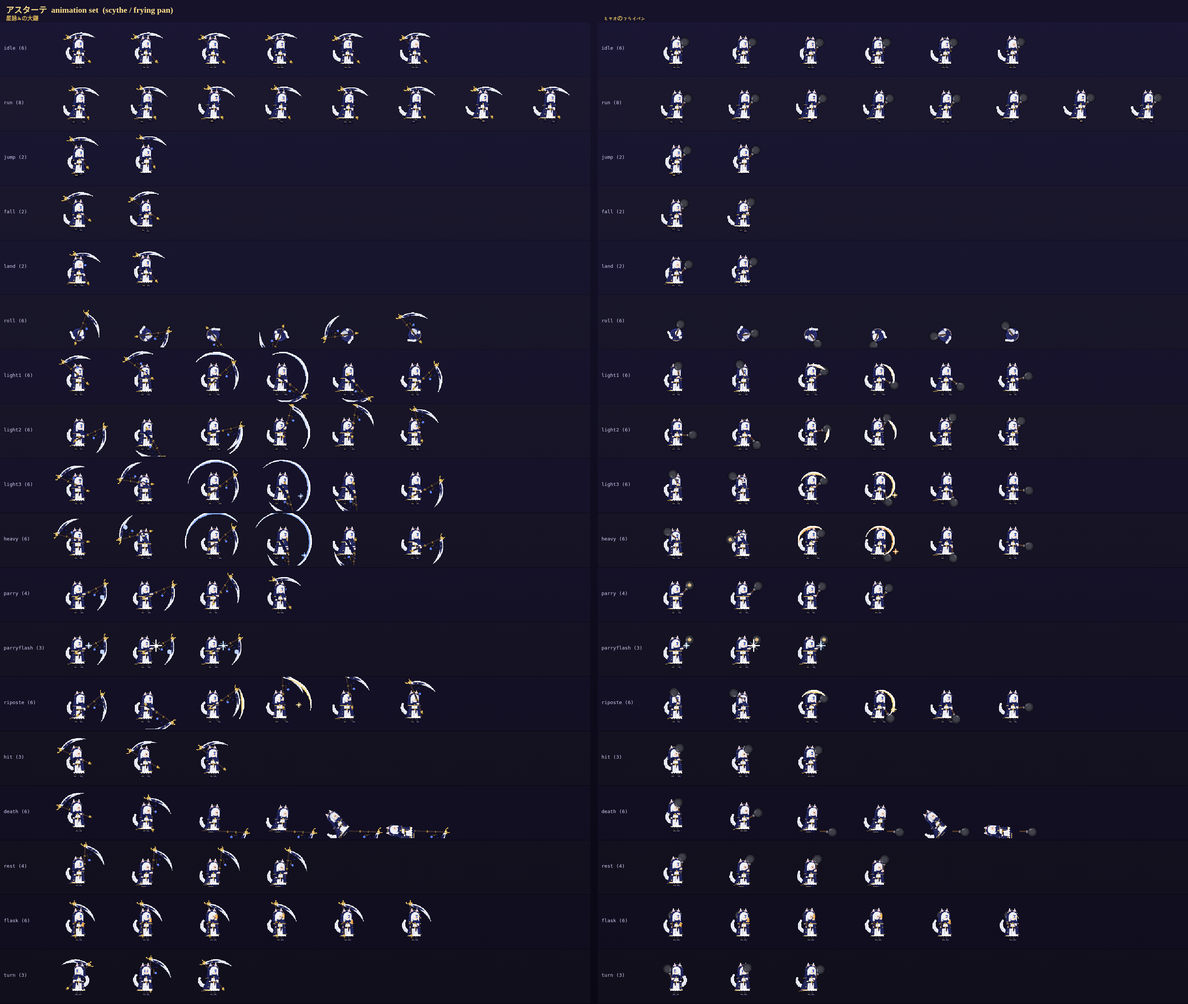
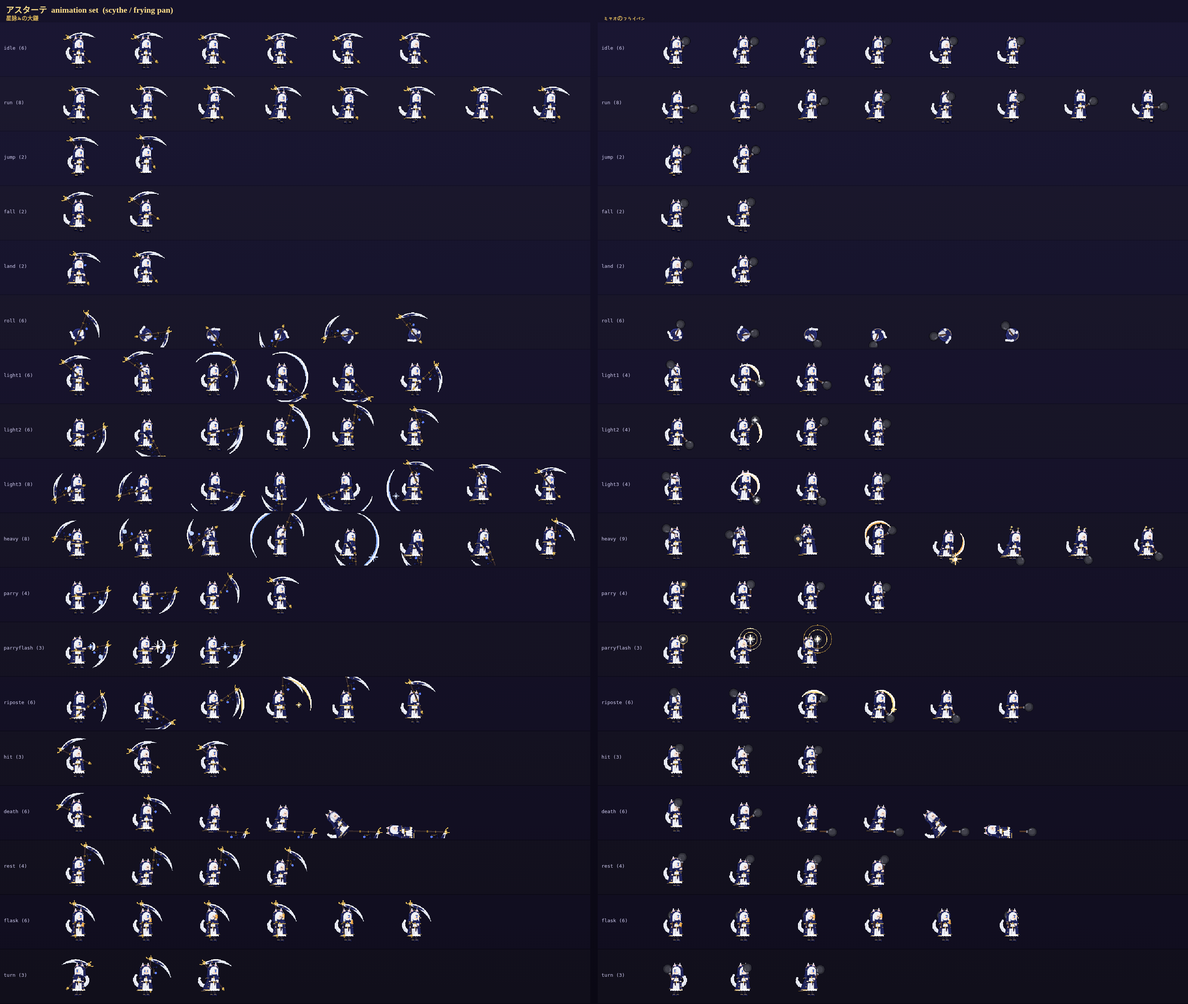
Per-weapon motion sets (scythe spin/wide heavy, pan bonks/comedic smash/clang parry), phase-mapped timing

diff --git a/index.html b/index.html
@@ -24,22 +24,23 @@ html,body{margin:0;height:100%;overflow:hidden;background:#07060c;touch-action:n
 'use strict';
 // ===== data: weapons / enemies / boss =====
 const VW = 384, VH = 288, T = 16, DT = 1 / 60, GRAV = 900;
-// Weapons are pure data: add a new entry (and a draw style in 04_art.js) to add a weapon.
+// Weapons are pure data: add an entry here (timings/hitboxes/sfx) + a motion set in ASTA.MOTIONS (src/04b_astarte.js)
+// + a draw style in weapon() there. Animation frames tagged wu/act/rec are stretched onto these timings.
 // move fields: wu=windup s, act=active s, rec=recovery s, dmg, stam, range px (in front), h=hitbox height, lunge px/s during windup+active,
 // arc = [startAngle, endAngle] of the weapon sprite through the swing (radians, 0 = forward, negative = up)
 const WEAPONS = {
   scythe: { name: '星詠みの大鎌', draw: 'scythe', riposteMul: 3.0,
     light: { wu: .22, act: .12, rec: .30, dmg: 34, stam: 18, range: 70, h: 56, lunge: 60, arc: [-2.2, .9], poise: 20 },
     light2: { wu: .16, act: .12, rec: .30, dmg: 34, stam: 18, range: 70, h: 64, lunge: 70, poise: 20 },
-    light3: { wu: .28, act: .16, rec: .42, dmg: 48, stam: 24, range: 84, h: 64, lunge: 110, poise: 40 },
+    light3: { wu: .26, act: .30, rec: .40, dmg: 44, stam: 26, range: 76, h: 64, lunge: 50, poise: 40, both: true },   // spin: hits both sides
     heavy: { wu: .55, act: .16, rec: .45, dmg: 80, stam: 36, range: 84, h: 78, lunge: 40, arc: [-2.8, 1.3], poise: 60 },
-    parry: { window: .20, stam: 14, dur: .45 } },
+    parry: { window: .20, stam: 14, dur: .45 }, sfx: { swing: 'whoosh', parry: 'parry' } },
   pan: { name: 'ミャオのフライパン', draw: 'pan', riposteMul: 4.0,
     light: { wu: .12, act: .08, rec: .18, dmg: 18, stam: 10, range: 36, h: 36, lunge: 50, arc: [-1.8, .6], poise: 10 },
     light2: { wu: .10, act: .08, rec: .18, dmg: 18, stam: 10, range: 36, h: 36, lunge: 60, poise: 10 },
     light3: { wu: .20, act: .10, rec: .30, dmg: 30, stam: 16, range: 40, h: 44, lunge: 120, poise: 50 },
-    heavy: { wu: .40, act: .12, rec: .30, dmg: 48, stam: 26, range: 42, h: 48, lunge: 90, arc: [-2.6, 1.0], poise: 80 },
-    parry: { window: .28, stam: 10, dur: .40 } },   // light weapon = generous parry, big riposte
+    heavy: { wu: .42, act: .12, rec: .55, dmg: 52, stam: 26, range: 44, h: 48, lunge: 90, arc: [-2.6, 1.0], poise: 80 },
+    parry: { window: .28, stam: 10, dur: .40 }, sfx: { swing: 'swish', parry: 'clang', hit: 'bonk' } },   // light weapon = generous parry, big riposte
 };
 // Enemies. attack.parry=true -> white telegraph flash (parryable), false -> red (dodge it).
 const ENEMIES = {
@@ -120,6 +121,8 @@ function sfx(f, d = .08, type = 'square', vol = .06, slide = 0) {
 }
 const SFX = { swing: () => sfx(300, .07, 'triangle', .05, -200), hit: () => sfx(140, .1, 'square', .07, -80), parry: () => { sfx(1400, .25, 'triangle', .08, -300); sfx(2100, .18, 'sine', .05) },
   roll: () => sfx(90, .1, 'sine', .05), hurt: () => sfx(220, .18, 'sawtooth', .06, -150), bell: () => { sfx(330, .9, 'sine', .07); sfx(495, .7, 'sine', .04) }, souls: () => sfx(880, .2, 'sine', .05, 400),
+  whoosh: () => { sfx(180, .16, 'triangle', .05, -120); sfx(90, .2, 'sine', .04) }, swish: () => sfx(520, .06, 'triangle', .04, -250),
+  bonk: () => { sfx(240, .12, 'square', .06, -60); sfx(720, .25, 'sine', .04) }, clang: () => { sfx(988, .9, 'sine', .07); sfx(1480, .7, 'sine', .04); sfx(2220, .5, 'triangle', .03); sfx(660, 1.1, 'sine', .04) },
   heal: () => sfx(520, .3, 'sine', .05, 300), die: () => sfx(160, .8, 'sawtooth', .06, -120) };
 // ===== art: everything is drawn by script (pixel art), gothic palette =====
 const PAL = { navy: '#20245a', navyD: '#141640', navyL: '#343a86', gold: '#d9b45a', goldD: '#9a7a32', hair: '#eef0f7', hairS: '#b9bfd8',
@@ -434,7 +437,9 @@ const ASTA = {};
     if (!F.two && F.wHand === 'front') { // relaxed back arm (hidden behind cape)
       const shB = [-5 + b.hx * .7, b.ty + 1]; line(g, shB[0], shB[1], -8 + b.tx, b.ty + 12, 5, C.navyD); px(g, -10 + b.tx, b.ty + 11, 4, 3, C.skin); }
     if (!F.dropW) arms(g, F, b, wpn, 'front');
-    if (F.smear) smear(g, F.smear);
+    if (F.smear) for (const sm of [].concat(F.smear)) smear(g, sm);
+    if (F.rings) for (const r of F.rings) { g.strokeStyle = r[3] || '#ffe08a'; g.lineWidth = 1; g.beginPath(); g.arc(r[0], r[1], r[2], 0, 7); g.stroke(); }
+    if (F.dizzy) for (let i = 0; i < 3; i++) { const a = F.dizzy + i * 2.1; const x = Math.cos(a) * 10 + 2, y = -68 + Math.sin(a) * 3; px(g, x - 2, y, 5, 1, '#ffe08a'); px(g, x, y - 2, 1, 5, '#ffe08a'); }
     if (F.burst) burst(g, F.burstAt ? F.burstAt[0] : 14, F.burstAt ? F.burstAt[1] : -44, F.burst, F.burstCol || '#ffffff');
     if (F.heal) for (let i = 0; i < 6; i++) { const a = i + F.heal * 2; px(g, Math.cos(a) * (8 + F.heal * 4), -30 - F.heal * 10 - i * 3, 2, 2, i % 2 ? '#ffcf6a' : '#fff2c0'); }
     g.restore();
@@ -483,12 +488,7 @@ const ASTA = {};
     A.fall = [{ fl: [5, -2], bl: [-6, -4], capeUp: .6, flare: .3, hairUp: 1, tail: -.4, tailUp: 1, skirt: .8, wa: idleA - .1, hand: [9, -40] }, { fl: [4, 0], bl: [-6, -2], capeUp: 1, flare: .4, hairUp: 2, tail: -.6, tailUp: 1.2, skirt: 1, ear: 1, wa: idleA - .2, hand: [10, -42] }];
     A.land = [{ crouch: 5, fl: [7, 0], bl: [-7, 0], flare: .8, skirt: 1.2, tail: .8, eye: 'closed', wa: idleA + .3, hand: [H0x + 2, H0y + 5] }, { crouch: 2, fl: [5, 0], bl: [-5, 0], flare: .4, skirt: .5, tail: .4, wa: idleA + .1, hand: [H0x + 1, H0y + 2] }];
     A.roll = [0, 1, 2, 3, 4, 5].map(i => ({ roll: 1, rot: i / 6 * PI * 2 }));
-    for (const k of ['light1', 'light2', 'light3', 'heavy']) A[k] = attack(ATK[wpn][k], wpn);
-    A.parry = [{ wa: wpn === 'pan' ? -.9 : -.45, hand: [13, -44], lean: -2, two: true, fl: [7, 0], bl: [-7, 0], flare: .3, eye: 'fierce', hot: true },
-      { wa: wpn === 'pan' ? -.8 : -.4, hand: [14, -44], lean: -2, two: true, fl: [7, 0], bl: [-7, 0], flare: .4, eye: 'fierce' },
-      { wa: -1.0, hand: [11, -40], lean: -1, two: true, fl: [6, 0], bl: [-6, 0], flare: .2 }, { wa: idleA + .2, hand: [H0x + 1, H0y + -1], lean: 0, flare: .1 }];
-    A.parryflash = [6, 12, 9].map((s, i) => Object.assign({}, A.parry[0], { burst: s, burstAt: [22, -50], burstCol: i === 1 ? '#ffffff' : '#bfe0ff', flare: .6 + i * .1, ear: 1 }));
-    A.riposte = attack(ATK[wpn].riposte, wpn).map(f => Object.assign(f, { eye: 'fierce' }));
+    Object.assign(A, ASTA.MOTIONS[wpn](wpn, { attack, idleA, H0x, H0y }));
     A.hit = [{ lean: -4, eye: 'wince', flare: -.8, hairUp: 1, tail: 1, tailUp: 1, ear: -1, crouch: 1, fl: [6, 0], bl: [-8, 0], wa: idleA - .4, hand: [6, -40] },
       { lean: -3, eye: 'wince', flare: -.4, tail: .6, crouch: 2, fl: [6, 0], bl: [-7, 0], wa: idleA - .3, hand: [H0x + -1, H0y + -2] }, { lean: -1, flare: .2, tail: .2, crouch: 1, wa: idleA - .1, hand: [H0x + 0, H0y + -1] }];
     A.death = [{ lean: -4, eye: 'wince', flare: -.6, hairUp: 1, tail: 1, wa: idleA - .5, hand: [6, -40] }, { crouch: 6, lean: 2, eye: 'closed', flare: .5, tail: -.2, wa: idleA + .6, hand: [H0x + 2, H0y + 6] },
@@ -500,9 +500,63 @@ const ASTA = {};
     A.flask = [fl([9, -34], [9, -34], {}), fl([10, -44], [10, -44], {}), fl([7, -50], [7, -52], { lean: -2, headDy: -1, eye: 'closed' }), fl([7, -51], [7, -53], { lean: -3, headDy: -1, eye: 'closed', ear: 1 }),
       fl([9, -40], [9, -40], { lean: -1 }), fl([8, -36], null, { heal: 1, eye: 'open' })];
     A.turn = [{ mirror: true, lean: -2, flare: -.8, tail: 1, skirt: .6, wa: idleA, hand: [H0x + 0, H0y + 0] }, { front: true, flare: .2, tail: 0, skirt: .8, wa: -1.57, hand: [H0x + 0, H0y + 0] }, { lean: 1, flare: .9, tail: -1, skirt: .6, wa: idleA + .1, hand: [H0x + 0, H0y + 0] }];
+    if (ASTA.MOTIONS[wpn].base) ASTA.MOTIONS[wpn].base(A);
     if (wpn === 'pan') for (const k in A) for (const f of A[k]) if (f.wBehind === undefined) f.wBehind = false;
     return A;
   }
+  // ===== per-weapon motion sets: every weapon owns its attack/parry/riposte frames (+ optional locomotion overrides via base(A)) =====
+  // Frames tagged ph:'wu'|'act'|'rec' are time-mapped by the game onto that move's windup/active/recovery from WEAPONS.
+  const tag = (arr, ph) => arr.map(f => Object.assign({ ph }, f));
+  ASTA.MOTIONS = {
+    scythe(w, h) { const M = {}, two = true, F = (o) => Object.assign({ two, wBehind: false, eye: 'fierce' }, o);
+      M.light1 = h.attack(ATK.scythe.light1, w);                  // wide diagonal reap
+      M.light2 = h.attack(ATK.scythe.light2, w);                  // rising reverse reap
+      // light3: full-body SPIN - sweeps both sides
+      M.light3 = [...tag([F({ wa: 2.7, hand: [-6, -34], lean: -3, crouch: 3, flare: .6, tail: .8, fl: [8, 0], bl: [-9, 0] }), F({ wa: 2.9, hand: [-9, -32], lean: -4, crouch: 4, flare: .8, tail: 1, fl: [9, 0], bl: [-10, 0], ear: 1 })], 'wu'),
+        ...tag([F({ wa: .2, hand: [14, -32], lean: 4, flare: -.9, skirt: 1.2, smear: { c: [4, -34], a0: 2.6, a1: .3, r: 58, col: '#a8c0ff' } }),
+          F({ front: true, wa: 1.57, hand: [4, -30], flare: -1, skirt: 1.4, tail: -1, smear: { c: [0, -34], a0: .3, a1: 1.9, r: 58, col: '#a8c0ff' } }),
+          F({ mirror: true, wa: .3, hand: [14, -32], lean: 3, flare: -.9, skirt: 1.4, smear: { c: [4, -34], a0: 2.9, a1: .3, r: 58, col: '#a8c0ff' } }),
+          F({ wa: -2.0, hand: [6, -46], lean: -1, flare: .9, skirt: 1.2, smear: { c: [0, -36], a0: 1.6, a1: 3.9, r: 58, col: '#a8c0ff' }, burst: 6, burstAt: [-40, -20], burstCol: '#c8d8ff' })], 'act'),
+        ...tag([F({ wa: -2.1, hand: [8, -40], lean: 0, flare: 1, skirt: .8, tail: -1 }), F({ wa: -2.25, hand: [9, -34], flare: .5, skirt: .4, tail: -.5, eye: 'open' })], 'rec')];
+      // heavy: huge overhead arc (270 deg), crouched wind-up, lunging leap
+      M.heavy = [...tag([F({ wa: -3.0, hand: [-2, -40], lean: -3, crouch: 4, flare: .4, tail: .6 }), F({ wa: -3.6, hand: [-8, -54], lean: -5, crouch: 6, flare: .7, tail: 1, ear: 1, hot: true }),
+          F({ wa: -3.8, hand: [-8, -58], lean: -6, crouch: 2, by: -3, flare: .9, tail: 1, ear: 1, hot: true, fl: [6, -3], bl: [-6, -1] })], 'wu'),
+        ...tag([F({ wa: -1.2, hand: [6, -56], lean: 2, by: -4, flare: -.6, skirt: .8, fl: [10, -2], bl: [-8, 0], smear: { c: [0, -44], a0: -3.8, a1: -1.2, r: 62, col: '#8ab0ff' } }),
+          F({ wa: 1.5, hand: [16, -24], lean: 7, crouch: 4, flare: -1, skirt: 1.3, fl: [12, 0], bl: [-9, 0], smear: { c: [4, -40], a0: -1.4, a1: 1.5, r: 62, col: '#8ab0ff' }, burst: 9, burstAt: [56, -6], burstCol: '#bcd0ff' })], 'act'),
+        ...tag([F({ wa: 1.65, hand: [16, -22], lean: 6, crouch: 5, flare: 1, skirt: 1, tail: -1, fl: [12, 0], bl: [-9, 0] }), F({ wa: 1.2, hand: [14, -26], lean: 4, crouch: 3, flare: .8, tail: -.8, fl: [10, 0], bl: [-8, 0] }),
+          F({ wa: -1.5, hand: [11, -34], lean: 1, flare: .4, tail: -.4, eye: 'open' })], 'rec')];
+      M.parry = [F({ wa: -.15, hand: [14, -44], lean: -2, fl: [7, 0], bl: [-7, 0], flare: .3, hot: true }), F({ wa: -.1, hand: [15, -44], lean: -2, fl: [7, 0], bl: [-7, 0], flare: .4 }),
+        F({ wa: -1.0, hand: [11, -40], lean: -1, fl: [6, 0], bl: [-6, 0], flare: .2 }), { wa: -2.2, hand: [10, -33], lean: 0, flare: .1 }];
+      M.parryflash = [5, 12, 8].map((s, i) => Object.assign({}, M.parry[0], { burst: s, burstAt: [26, -48], burstCol: i === 1 ? '#ffffff' : '#9ab8ff', flare: .6 + i * .1, ear: 1,
+        smear: i < 2 ? { c: [26, -48], a0: -1.2, a1: 1.2, r: 8 + i * 6, col: '#bcd0ff' } : null }));
+      M.riposte = h.attack(ATK.scythe.riposte, w);
+      return M; },
+    pan(w, h) { const M = {}, F = (o) => Object.assign({ wBehind: false, eye: 'fierce' }, o);
+      // quick bonks: 1 windup frame, 1 active, 2 recovery
+      const bonk = (a0, a1, h0, h1, l0, l1, extra) => [...tag([F({ wa: a0, hand: h0, lean: l0, flare: .3, tail: .5, ear: 1 })], 'wu'),
+        ...tag([F(Object.assign({ wa: a1, hand: h1, lean: l1, flare: -.5, skirt: .6, fl: [9, 0], bl: [-7, 0], smear: { c: [(h0[0] + h1[0]) / 2, (h0[1] + h1[1]) / 2], a0: a0, a1: a1, r: 25, col: '#ffe8c0' }, burst: 4, burstAt: [h1[0] + Math.cos(a1) * 24, h1[1] + Math.sin(a1) * 24], burstCol: '#ffffff' }, extra || {}))], 'act'),
+        ...tag([F({ wa: a1 + .2, hand: h1, lean: l1 * .6, flare: .6, tail: -.6, fl: [8, 0], bl: [-6, 0] }), F({ wa: h.idleA, hand: [h.H0x, h.H0y], flare: .3, tail: -.3, eye: 'open' })], 'rec')];
+      M.light1 = bonk(-2.2, .3, [2, -48], [14, -36], -2, 3);
+      M.light2 = bonk(.9, -1.0, [14, -32], [12, -46], 3, -1);
+      M.light3 = bonk(-2.9, .9, [2, -56], [14, -30], -3, 5, { by: -4, fl: [9, -4], bl: [-7, -2] }); // hop bonk
+      // heavy: comedic over-the-head smash -> dizzy
+      M.heavy = [...tag([F({ wa: -2.6, hand: [0, -54], lean: -3, flare: .3, tail: .8, ear: 1 }), F({ wa: -3.4, hand: [-6, -60], lean: -6, by: -2, flare: .6, tail: 1, eye: 'closed', ear: 1 }),
+          F({ wa: -3.9, hand: [-9, -62], lean: -8, by: -6, flare: .9, tail: 1.2, tailUp: 1, eye: 'closed', fl: [5, -5], bl: [-6, -3], hot: true })], 'wu'),
+        ...tag([F({ wa: -.6, hand: [10, -50], lean: 2, by: -4, flare: -.8, skirt: 1, smear: { c: [2, -54], a0: -3.9, a1: -.6, r: 28, col: '#ffb860' } }),
+          F({ wa: 1.45, hand: [16, -24], lean: 8, crouch: 7, flare: -1, skirt: 1.4, fl: [12, 0], bl: [-9, 0], hot: true, smear: { c: [12, -36], a0: -.8, a1: 1.45, r: 28, col: '#ffb860' }, burst: 12, burstAt: [22, -2], burstCol: '#ffd88a' })], 'act'),
+        ...tag([F({ wa: 1.5, hand: [16, -22], lean: 7, crouch: 6, flare: 1, skirt: 1, tail: -1, eye: 'closed', dizzy: .1 }), F({ wa: 1.4, hand: [15, -24], lean: 5, crouch: 4, flare: .7, tail: -.6, eye: 'wince', dizzy: 2.2 }),
+          F({ wa: 1.0, hand: [13, -28], lean: 2, crouch: 2, flare: .4, eye: 'closed', dizzy: 4.3, ear: -1 }), F({ wa: h.idleA, hand: [h.H0x, h.H0y], flare: .2, eye: 'open' })], 'rec')];
+      // parry: pan raised like a shield; flash = bell-like clang rings
+      M.parry = [F({ wa: -1.57, hand: [15, -40], lean: -2, fl: [7, 0], bl: [-7, 0], flare: .3, hot: true }), F({ wa: -1.57, hand: [15, -40], lean: -2, fl: [7, 0], bl: [-7, 0], flare: .4 }),
+        F({ wa: -1.2, hand: [12, -38], lean: -1, fl: [6, 0], bl: [-6, 0] }), { wa: h.idleA, hand: [h.H0x, h.H0y], wBehind: false }];
+      M.parryflash = [0, 1, 2].map(i => Object.assign({}, M.parry[0], { ear: 1, eye: i === 1 ? 'closed' : 'fierce', burst: [4, 9, 6][i], burstAt: [15, -64], burstCol: '#ffffff',
+        rings: [[15, -64, 10 + i * 5, '#ffe08a'], [15, -64, 16 + i * 7, i === 2 ? '#c8a050' : '#fff2c0']].slice(0, i + 1), lean: -2 - i }));
+      M.riposte = h.attack(ATK.pan.riposte, w);
+      M.idle = [0, 1, 2, 3, 4, 5].map(i => ({ by: [0, -1, -1, 0, 1, 1][i], tail: S(i / 6 * PI * 2) * 1.3, ear: i === 2 ? 1 : i === 5 ? -1 : 0, eye: i === 4 ? 'closed' : 'open', wa: -1.15 + S(i / 6 * PI * 2) * .15, hand: [10, -38 + [0, -1, -1, 0, 1, 1][i]], flare: S(i / 6 * PI * 2) * .2, wBehind: false }));
+      M.run = [0, 1, 2, 3, 4, 5, 6, 7].map(i => { const p = i / 8 * PI * 2, c = Math.cos(p), s = S(p);
+        return { fl: [3 + c * 8, -Math.max(0, s) * 6], bl: [-3 - c * 8, -Math.max(0, -s) * 6], by: -Math.round(Math.abs(s) * 3), lean: 2, flare: .6 + s * .3, tail: -.6 + s * .6, skirt: .5 + Math.abs(c) * .4, wa: -.6 + c * .7, hand: [9 + c * 4, -35], wBehind: false, ear: i % 4 === 0 ? 1 : 0 }; });
+      return M; },
+  };
   ASTA.ORDER = ['idle', 'run', 'jump', 'fall', 'land', 'roll', 'light1', 'light2', 'light3', 'heavy', 'parry', 'parryflash', 'riposte', 'hit', 'death', 'rest', 'flask', 'turn'];
   ASTA.build = function (wpn) {
     const A = anims(wpn), cols = 8, rows = ASTA.ORDER.length, c = mk(cols * AC_W, rows * AC_H), g = c.getContext('2d'), meta = { cw: AC_W, ch: AC_H, ax: AC_AX, ay: AC_AY, anims: {} };
@@ -574,7 +628,7 @@ function startAttack(kind) {
   const W = weapon();
   if (kind === 'light') { P.combo = (P.t - (P.comboT || -9) < .3 && P.combo < 3) ? P.combo + 1 : 1; kind = P.combo === 1 ? 'light' : 'light' + P.combo; } else P.combo = 0;
   const m = W[kind]; if (!useStam(m.stam)) return;
-  P.anim = kind === 'light' ? 'light1' : kind; P.state = 'attack'; P.st = 0; P.move = m; P.moveKind = kind; P.hitSet = new Set(); SFX.swing();
+  P.anim = kind === 'light' ? 'light1' : kind; P.state = 'attack'; P.st = 0; P.move = m; P.moveKind = kind; P.hitSet = new Set(); (SFX[(W.sfx && W.sfx.swing) || 'swing'])();
 }
 function tryRiposte() {
   const W = weapon(); const list = G.foes().filter(e => e.hp > 0 && e.stagger > 0 && e.parried);
@@ -589,7 +643,7 @@ function hurtPlayer(dmg, src, parryable, label) {
   const W = weapon();
   if (P.state === 'parry' && P.st < W.parry.window && parryable) {
     const sx = src ? src.x + src.w / 2 : P.x; if (Math.sign(sx - (P.x + P.w / 2)) === P.face || Math.abs(sx - P.x - P.w / 2) < 8) {
-      STATS.parried++; SFX.parry(); G.flash = .12; G.hitstop = .12; fx('parry', P.x + P.w / 2 + P.face * 14, P.y + 18); if (src && src.onParried) src.onParried(); P.state = 'free'; P.parryFlashT = .3; P.stam = Math.min(pMaxStam(), P.stam + 10); return 'parried'; } }
+      STATS.parried++; (SFX[(W.sfx && W.sfx.parry) || 'parry'])(); G.flash = .12; G.hitstop = .12; fx('parry', P.x + P.w / 2 + P.face * 14, P.y + 18); if (src && src.onParried) src.onParried(); P.state = 'free'; P.parryFlashT = .3; P.stam = Math.min(pMaxStam(), P.stam + 10); return 'parried'; } }
   let d = dmg; if (P.state === 'parry') d *= 1.0;
   P.hp -= d; STATS.taken++; STATS.takenBy[label || '?'] = (STATS.takenBy[label || '?'] || 0) + 1; SFX.hurt(); G.shake = .2; G.hitstop = .06;
   fx('blood', P.x + P.w / 2, P.y + 20);
@@ -620,8 +674,8 @@ function updatePlayer(dt) {
     const m = P.move; const ph = P.st < m.wu ? 'wu' : P.st < m.wu + m.act ? 'act' : 'rec';
     P.vx = ph !== 'rec' ? P.face * m.lunge : P.vx * .8;
     if (ph === 'act') {
-      const hb = { x: P.face > 0 ? P.x + P.w / 2 : P.x + P.w / 2 - m.range, y: P.y + P.h - m.h, w: m.range, h: m.h };
-      for (const e of G.foes()) if (e.hp > 0 && !P.hitSet.has(e) && overlap(hb, e)) { P.hitSet.add(e); e.damage(m.dmg * pStr(), m.poise, P.face); }
+      const hb = m.both ? { x: P.x + P.w / 2 - m.range, y: P.y + P.h - m.h, w: m.range * 2, h: m.h } : { x: P.face > 0 ? P.x + P.w / 2 : P.x + P.w / 2 - m.range, y: P.y + P.h - m.h, w: m.range, h: m.h };
+      for (const e of G.foes()) if (e.hp > 0 && !P.hitSet.has(e) && overlap(hb, e)) { P.hitSet.add(e); e.damage(m.dmg * pStr(), m.poise, P.face); if (W.sfx && W.sfx.hit) SFX[W.sfx.hit](); }
     }
     if (P.st > m.wu + m.act + m.rec * .55 && (peek('light') || peek('heavy') || peek('roll'))) { P.state = 'free'; P.comboT = P.t; }
     else if (P.st > m.wu + m.act + m.rec) { P.state = 'free'; P.comboT = P.t; }
@@ -648,10 +702,12 @@ function updatePlayer(dt) {
   if (P.y > VH + 40) { P.hp = 0; P.state = 'dead'; P.st = 2; }
 }
 function playerPose() { // -> { anim, f } into the アスターテ sheets
-  const s = P.state, ph3 = (st, wu, act, rec) => st < wu ? st / wu * 2 : st < wu + act ? 2 + (st - wu) / act * 2 : 4 + Math.min(1.99, (st - wu - act) / rec * 2);
+  const s = P.state, ph3 = (st, wu, act, rec, anim) => { // map time onto the frames tagged wu/act/rec of this weapon's motion
+    const a = ASTA.get(weapon().draw).meta.anims[anim], ph = a.ph, p = st < wu ? 'wu' : st < wu + act ? 'act' : 'rec', t = p === 'wu' ? st / wu : p === 'act' ? (st - wu) / act : Math.min(.999, (st - wu - act) / rec);
+    const idx = []; ph.forEach((x, i) => { if (x === p) idx.push(i); }); return idx.length ? idx[Math.min(idx.length - 1, t * idx.length | 0)] : 0; };
   if (s === 'roll') return { anim: 'roll', f: P.st / .48 * 6 };
-  if (s === 'attack') { const m = P.move; return { anim: P.anim, f: ph3(P.st, m.wu, m.act, m.rec) }; }
-  if (s === 'riposte') return { anim: 'riposte', f: ph3(P.st, .35, .15, .3) };
+  if (s === 'attack') { const m = P.move; return { anim: P.anim, f: ph3(P.st, m.wu, m.act, m.rec, P.anim) }; }
+  if (s === 'riposte') return { anim: 'riposte', f: ph3(P.st, .35, .15, .3, 'riposte') };
   if (s === 'parry') { if (P.parryFlashT > 0) return { anim: 'parryflash', f: (.3 - P.parryFlashT) / .1 }; const w = weapon().parry; return { anim: 'parry', f: P.st < w.window ? (P.st < .05 ? 0 : 1) : 2 + (P.st - w.window) / (w.dur - w.window) * 2 }; }
   if (P.parryFlashT > 0) return { anim: 'parryflash', f: (.3 - P.parryFlashT) / .1 };
   if (s === 'hurt') return { anim: 'hit', f: P.st / .32 * 3 };

diff --git a/src/04b_astarte.js b/src/04b_astarte.js
@@ -148,7 +148,9 @@ const ASTA = {};
     if (!F.two && F.wHand === 'front') { // relaxed back arm (hidden behind cape)
       const shB = [-5 + b.hx * .7, b.ty + 1]; line(g, shB[0], shB[1], -8 + b.tx, b.ty + 12, 5, C.navyD); px(g, -10 + b.tx, b.ty + 11, 4, 3, C.skin); }
     if (!F.dropW) arms(g, F, b, wpn, 'front');
-    if (F.smear) smear(g, F.smear);
+    if (F.smear) for (const sm of [].concat(F.smear)) smear(g, sm);
+    if (F.rings) for (const r of F.rings) { g.strokeStyle = r[3] || '#ffe08a'; g.lineWidth = 1; g.beginPath(); g.arc(r[0], r[1], r[2], 0, 7); g.stroke(); }
+    if (F.dizzy) for (let i = 0; i < 3; i++) { const a = F.dizzy + i * 2.1; const x = Math.cos(a) * 10 + 2, y = -68 + Math.sin(a) * 3; px(g, x - 2, y, 5, 1, '#ffe08a'); px(g, x, y - 2, 1, 5, '#ffe08a'); }
     if (F.burst) burst(g, F.burstAt ? F.burstAt[0] : 14, F.burstAt ? F.burstAt[1] : -44, F.burst, F.burstCol || '#ffffff');
     if (F.heal) for (let i = 0; i < 6; i++) { const a = i + F.heal * 2; px(g, Math.cos(a) * (8 + F.heal * 4), -30 - F.heal * 10 - i * 3, 2, 2, i % 2 ? '#ffcf6a' : '#fff2c0'); }
     g.restore();
@@ -197,12 +199,7 @@ const ASTA = {};
     A.fall = [{ fl: [5, -2], bl: [-6, -4], capeUp: .6, flare: .3, hairUp: 1, tail: -.4, tailUp: 1, skirt: .8, wa: idleA - .1, hand: [9, -40] }, { fl: [4, 0], bl: [-6, -2], capeUp: 1, flare: .4, hairUp: 2, tail: -.6, tailUp: 1.2, skirt: 1, ear: 1, wa: idleA - .2, hand: [10, -42] }];
     A.land = [{ crouch: 5, fl: [7, 0], bl: [-7, 0], flare: .8, skirt: 1.2, tail: .8, eye: 'closed', wa: idleA + .3, hand: [H0x + 2, H0y + 5] }, { crouch: 2, fl: [5, 0], bl: [-5, 0], flare: .4, skirt: .5, tail: .4, wa: idleA + .1, hand: [H0x + 1, H0y + 2] }];
     A.roll = [0, 1, 2, 3, 4, 5].map(i => ({ roll: 1, rot: i / 6 * PI * 2 }));
-    for (const k of ['light1', 'light2', 'light3', 'heavy']) A[k] = attack(ATK[wpn][k], wpn);
-    A.parry = [{ wa: wpn === 'pan' ? -.9 : -.45, hand: [13, -44], lean: -2, two: true, fl: [7, 0], bl: [-7, 0], flare: .3, eye: 'fierce', hot: true },
-      { wa: wpn === 'pan' ? -.8 : -.4, hand: [14, -44], lean: -2, two: true, fl: [7, 0], bl: [-7, 0], flare: .4, eye: 'fierce' },
-      { wa: -1.0, hand: [11, -40], lean: -1, two: true, fl: [6, 0], bl: [-6, 0], flare: .2 }, { wa: idleA + .2, hand: [H0x + 1, H0y + -1], lean: 0, flare: .1 }];
-    A.parryflash = [6, 12, 9].map((s, i) => Object.assign({}, A.parry[0], { burst: s, burstAt: [22, -50], burstCol: i === 1 ? '#ffffff' : '#bfe0ff', flare: .6 + i * .1, ear: 1 }));
-    A.riposte = attack(ATK[wpn].riposte, wpn).map(f => Object.assign(f, { eye: 'fierce' }));
+    Object.assign(A, ASTA.MOTIONS[wpn](wpn, { attack, idleA, H0x, H0y }));
     A.hit = [{ lean: -4, eye: 'wince', flare: -.8, hairUp: 1, tail: 1, tailUp: 1, ear: -1, crouch: 1, fl: [6, 0], bl: [-8, 0], wa: idleA - .4, hand: [6, -40] },
       { lean: -3, eye: 'wince', flare: -.4, tail: .6, crouch: 2, fl: [6, 0], bl: [-7, 0], wa: idleA - .3, hand: [H0x + -1, H0y + -2] }, { lean: -1, flare: .2, tail: .2, crouch: 1, wa: idleA - .1, hand: [H0x + 0, H0y + -1] }];
     A.death = [{ lean: -4, eye: 'wince', flare: -.6, hairUp: 1, tail: 1, wa: idleA - .5, hand: [6, -40] }, { crouch: 6, lean: 2, eye: 'closed', flare: .5, tail: -.2, wa: idleA + .6, hand: [H0x + 2, H0y + 6] },
@@ -214,9 +211,63 @@ const ASTA = {};
     A.flask = [fl([9, -34], [9, -34], {}), fl([10, -44], [10, -44], {}), fl([7, -50], [7, -52], { lean: -2, headDy: -1, eye: 'closed' }), fl([7, -51], [7, -53], { lean: -3, headDy: -1, eye: 'closed', ear: 1 }),
       fl([9, -40], [9, -40], { lean: -1 }), fl([8, -36], null, { heal: 1, eye: 'open' })];
     A.turn = [{ mirror: true, lean: -2, flare: -.8, tail: 1, skirt: .6, wa: idleA, hand: [H0x + 0, H0y + 0] }, { front: true, flare: .2, tail: 0, skirt: .8, wa: -1.57, hand: [H0x + 0, H0y + 0] }, { lean: 1, flare: .9, tail: -1, skirt: .6, wa: idleA + .1, hand: [H0x + 0, H0y + 0] }];
+    if (ASTA.MOTIONS[wpn].base) ASTA.MOTIONS[wpn].base(A);
     if (wpn === 'pan') for (const k in A) for (const f of A[k]) if (f.wBehind === undefined) f.wBehind = false;
     return A;
   }
+  // ===== per-weapon motion sets: every weapon owns its attack/parry/riposte frames (+ optional locomotion overrides via base(A)) =====
+  // Frames tagged ph:'wu'|'act'|'rec' are time-mapped by the game onto that move's windup/active/recovery from WEAPONS.
+  const tag = (arr, ph) => arr.map(f => Object.assign({ ph }, f));
+  ASTA.MOTIONS = {
+    scythe(w, h) { const M = {}, two = true, F = (o) => Object.assign({ two, wBehind: false, eye: 'fierce' }, o);
+      M.light1 = h.attack(ATK.scythe.light1, w);                  // wide diagonal reap
+      M.light2 = h.attack(ATK.scythe.light2, w);                  // rising reverse reap
+      // light3: full-body SPIN - sweeps both sides
+      M.light3 = [...tag([F({ wa: 2.7, hand: [-6, -34], lean: -3, crouch: 3, flare: .6, tail: .8, fl: [8, 0], bl: [-9, 0] }), F({ wa: 2.9, hand: [-9, -32], lean: -4, crouch: 4, flare: .8, tail: 1, fl: [9, 0], bl: [-10, 0], ear: 1 })], 'wu'),
+        ...tag([F({ wa: .2, hand: [14, -32], lean: 4, flare: -.9, skirt: 1.2, smear: { c: [4, -34], a0: 2.6, a1: .3, r: 58, col: '#a8c0ff' } }),
+          F({ front: true, wa: 1.57, hand: [4, -30], flare: -1, skirt: 1.4, tail: -1, smear: { c: [0, -34], a0: .3, a1: 1.9, r: 58, col: '#a8c0ff' } }),
+          F({ mirror: true, wa: .3, hand: [14, -32], lean: 3, flare: -.9, skirt: 1.4, smear: { c: [4, -34], a0: 2.9, a1: .3, r: 58, col: '#a8c0ff' } }),
+          F({ wa: -2.0, hand: [6, -46], lean: -1, flare: .9, skirt: 1.2, smear: { c: [0, -36], a0: 1.6, a1: 3.9, r: 58, col: '#a8c0ff' }, burst: 6, burstAt: [-40, -20], burstCol: '#c8d8ff' })], 'act'),
+        ...tag([F({ wa: -2.1, hand: [8, -40], lean: 0, flare: 1, skirt: .8, tail: -1 }), F({ wa: -2.25, hand: [9, -34], flare: .5, skirt: .4, tail: -.5, eye: 'open' })], 'rec')];
+      // heavy: huge overhead arc (270 deg), crouched wind-up, lunging leap
+      M.heavy = [...tag([F({ wa: -3.0, hand: [-2, -40], lean: -3, crouch: 4, flare: .4, tail: .6 }), F({ wa: -3.6, hand: [-8, -54], lean: -5, crouch: 6, flare: .7, tail: 1, ear: 1, hot: true }),
+          F({ wa: -3.8, hand: [-8, -58], lean: -6, crouch: 2, by: -3, flare: .9, tail: 1, ear: 1, hot: true, fl: [6, -3], bl: [-6, -1] })], 'wu'),
+        ...tag([F({ wa: -1.2, hand: [6, -56], lean: 2, by: -4, flare: -.6, skirt: .8, fl: [10, -2], bl: [-8, 0], smear: { c: [0, -44], a0: -3.8, a1: -1.2, r: 62, col: '#8ab0ff' } }),
+          F({ wa: 1.5, hand: [16, -24], lean: 7, crouch: 4, flare: -1, skirt: 1.3, fl: [12, 0], bl: [-9, 0], smear: { c: [4, -40], a0: -1.4, a1: 1.5, r: 62, col: '#8ab0ff' }, burst: 9, burstAt: [56, -6], burstCol: '#bcd0ff' })], 'act'),
+        ...tag([F({ wa: 1.65, hand: [16, -22], lean: 6, crouch: 5, flare: 1, skirt: 1, tail: -1, fl: [12, 0], bl: [-9, 0] }), F({ wa: 1.2, hand: [14, -26], lean: 4, crouch: 3, flare: .8, tail: -.8, fl: [10, 0], bl: [-8, 0] }),
+          F({ wa: -1.5, hand: [11, -34], lean: 1, flare: .4, tail: -.4, eye: 'open' })], 'rec')];
+      M.parry = [F({ wa: -.15, hand: [14, -44], lean: -2, fl: [7, 0], bl: [-7, 0], flare: .3, hot: true }), F({ wa: -.1, hand: [15, -44], lean: -2, fl: [7, 0], bl: [-7, 0], flare: .4 }),
+        F({ wa: -1.0, hand: [11, -40], lean: -1, fl: [6, 0], bl: [-6, 0], flare: .2 }), { wa: -2.2, hand: [10, -33], lean: 0, flare: .1 }];
+      M.parryflash = [5, 12, 8].map((s, i) => Object.assign({}, M.parry[0], { burst: s, burstAt: [26, -48], burstCol: i === 1 ? '#ffffff' : '#9ab8ff', flare: .6 + i * .1, ear: 1,
+        smear: i < 2 ? { c: [26, -48], a0: -1.2, a1: 1.2, r: 8 + i * 6, col: '#bcd0ff' } : null }));
+      M.riposte = h.attack(ATK.scythe.riposte, w);
+      return M; },
+    pan(w, h) { const M = {}, F = (o) => Object.assign({ wBehind: false, eye: 'fierce' }, o);
+      // quick bonks: 1 windup frame, 1 active, 2 recovery
+      const bonk = (a0, a1, h0, h1, l0, l1, extra) => [...tag([F({ wa: a0, hand: h0, lean: l0, flare: .3, tail: .5, ear: 1 })], 'wu'),
+        ...tag([F(Object.assign({ wa: a1, hand: h1, lean: l1, flare: -.5, skirt: .6, fl: [9, 0], bl: [-7, 0], smear: { c: [(h0[0] + h1[0]) / 2, (h0[1] + h1[1]) / 2], a0: a0, a1: a1, r: 25, col: '#ffe8c0' }, burst: 4, burstAt: [h1[0] + Math.cos(a1) * 24, h1[1] + Math.sin(a1) * 24], burstCol: '#ffffff' }, extra || {}))], 'act'),
+        ...tag([F({ wa: a1 + .2, hand: h1, lean: l1 * .6, flare: .6, tail: -.6, fl: [8, 0], bl: [-6, 0] }), F({ wa: h.idleA, hand: [h.H0x, h.H0y], flare: .3, tail: -.3, eye: 'open' })], 'rec')];
+      M.light1 = bonk(-2.2, .3, [2, -48], [14, -36], -2, 3);
+      M.light2 = bonk(.9, -1.0, [14, -32], [12, -46], 3, -1);
+      M.light3 = bonk(-2.9, .9, [2, -56], [14, -30], -3, 5, { by: -4, fl: [9, -4], bl: [-7, -2] }); // hop bonk
+      // heavy: comedic over-the-head smash -> dizzy
+      M.heavy = [...tag([F({ wa: -2.6, hand: [0, -54], lean: -3, flare: .3, tail: .8, ear: 1 }), F({ wa: -3.4, hand: [-6, -60], lean: -6, by: -2, flare: .6, tail: 1, eye: 'closed', ear: 1 }),
+          F({ wa: -3.9, hand: [-9, -62], lean: -8, by: -6, flare: .9, tail: 1.2, tailUp: 1, eye: 'closed', fl: [5, -5], bl: [-6, -3], hot: true })], 'wu'),
+        ...tag([F({ wa: -.6, hand: [10, -50], lean: 2, by: -4, flare: -.8, skirt: 1, smear: { c: [2, -54], a0: -3.9, a1: -.6, r: 28, col: '#ffb860' } }),
+          F({ wa: 1.45, hand: [16, -24], lean: 8, crouch: 7, flare: -1, skirt: 1.4, fl: [12, 0], bl: [-9, 0], hot: true, smear: { c: [12, -36], a0: -.8, a1: 1.45, r: 28, col: '#ffb860' }, burst: 12, burstAt: [22, -2], burstCol: '#ffd88a' })], 'act'),
+        ...tag([F({ wa: 1.5, hand: [16, -22], lean: 7, crouch: 6, flare: 1, skirt: 1, tail: -1, eye: 'closed', dizzy: .1 }), F({ wa: 1.4, hand: [15, -24], lean: 5, crouch: 4, flare: .7, tail: -.6, eye: 'wince', dizzy: 2.2 }),
+          F({ wa: 1.0, hand: [13, -28], lean: 2, crouch: 2, flare: .4, eye: 'closed', dizzy: 4.3, ear: -1 }), F({ wa: h.idleA, hand: [h.H0x, h.H0y], flare: .2, eye: 'open' })], 'rec')];
+      // parry: pan raised like a shield; flash = bell-like clang rings
+      M.parry = [F({ wa: -1.57, hand: [15, -40], lean: -2, fl: [7, 0], bl: [-7, 0], flare: .3, hot: true }), F({ wa: -1.57, hand: [15, -40], lean: -2, fl: [7, 0], bl: [-7, 0], flare: .4 }),
+        F({ wa: -1.2, hand: [12, -38], lean: -1, fl: [6, 0], bl: [-6, 0] }), { wa: h.idleA, hand: [h.H0x, h.H0y], wBehind: false }];
+      M.parryflash = [0, 1, 2].map(i => Object.assign({}, M.parry[0], { ear: 1, eye: i === 1 ? 'closed' : 'fierce', burst: [4, 9, 6][i], burstAt: [15, -64], burstCol: '#ffffff',
+        rings: [[15, -64, 10 + i * 5, '#ffe08a'], [15, -64, 16 + i * 7, i === 2 ? '#c8a050' : '#fff2c0']].slice(0, i + 1), lean: -2 - i }));
+      M.riposte = h.attack(ATK.pan.riposte, w);
+      M.idle = [0, 1, 2, 3, 4, 5].map(i => ({ by: [0, -1, -1, 0, 1, 1][i], tail: S(i / 6 * PI * 2) * 1.3, ear: i === 2 ? 1 : i === 5 ? -1 : 0, eye: i === 4 ? 'closed' : 'open', wa: -1.15 + S(i / 6 * PI * 2) * .15, hand: [10, -38 + [0, -1, -1, 0, 1, 1][i]], flare: S(i / 6 * PI * 2) * .2, wBehind: false }));
+      M.run = [0, 1, 2, 3, 4, 5, 6, 7].map(i => { const p = i / 8 * PI * 2, c = Math.cos(p), s = S(p);
+        return { fl: [3 + c * 8, -Math.max(0, s) * 6], bl: [-3 - c * 8, -Math.max(0, -s) * 6], by: -Math.round(Math.abs(s) * 3), lean: 2, flare: .6 + s * .3, tail: -.6 + s * .6, skirt: .5 + Math.abs(c) * .4, wa: -.6 + c * .7, hand: [9 + c * 4, -35], wBehind: false, ear: i % 4 === 0 ? 1 : 0 }; });
+      return M; },
+  };
   ASTA.ORDER = ['idle', 'run', 'jump', 'fall', 'land', 'roll', 'light1', 'light2', 'light3', 'heavy', 'parry', 'parryflash', 'riposte', 'hit', 'death', 'rest', 'flask', 'turn'];
   ASTA.build = function (wpn) {
     const A = anims(wpn), cols = 8, rows = ASTA.ORDER.length, c = mk(cols * AC_W, rows * AC_H), g = c.getContext('2d'), meta = { cw: AC_W, ch: AC_H, ax: AC_AX, ay: AC_AY, anims: {} };

diff --git a/src/06_player.js b/src/06_player.js
@@ -10,7 +10,7 @@ function startAttack(kind) {
   const W = weapon();
   if (kind === 'light') { P.combo = (P.t - (P.comboT || -9) < .3 && P.combo < 3) ? P.combo + 1 : 1; kind = P.combo === 1 ? 'light' : 'light' + P.combo; } else P.combo = 0;
   const m = W[kind]; if (!useStam(m.stam)) return;
-  P.anim = kind === 'light' ? 'light1' : kind; P.state = 'attack'; P.st = 0; P.move = m; P.moveKind = kind; P.hitSet = new Set(); SFX.swing();
+  P.anim = kind === 'light' ? 'light1' : kind; P.state = 'attack'; P.st = 0; P.move = m; P.moveKind = kind; P.hitSet = new Set(); (SFX[(W.sfx && W.sfx.swing) || 'swing'])();
 }
 function tryRiposte() {
   const W = weapon(); const list = G.foes().filter(e => e.hp > 0 && e.stagger > 0 && e.parried);
@@ -25,7 +25,7 @@ function hurtPlayer(dmg, src, parryable, label) {
   const W = weapon();
   if (P.state === 'parry' && P.st < W.parry.window && parryable) {
     const sx = src ? src.x + src.w / 2 : P.x; if (Math.sign(sx - (P.x + P.w / 2)) === P.face || Math.abs(sx - P.x - P.w / 2) < 8) {
-      STATS.parried++; SFX.parry(); G.flash = .12; G.hitstop = .12; fx('parry', P.x + P.w / 2 + P.face * 14, P.y + 18); if (src && src.onParried) src.onParried(); P.state = 'free'; P.parryFlashT = .3; P.stam = Math.min(pMaxStam(), P.stam + 10); return 'parried'; } }
+      STATS.parried++; (SFX[(W.sfx && W.sfx.parry) || 'parry'])(); G.flash = .12; G.hitstop = .12; fx('parry', P.x + P.w / 2 + P.face * 14, P.y + 18); if (src && src.onParried) src.onParried(); P.state = 'free'; P.parryFlashT = .3; P.stam = Math.min(pMaxStam(), P.stam + 10); return 'parried'; } }
   let d = dmg; if (P.state === 'parry') d *= 1.0;
   P.hp -= d; STATS.taken++; STATS.takenBy[label || '?'] = (STATS.takenBy[label || '?'] || 0) + 1; SFX.hurt(); G.shake = .2; G.hitstop = .06;
   fx('blood', P.x + P.w / 2, P.y + 20);
@@ -56,8 +56,8 @@ function updatePlayer(dt) {
     const m = P.move; const ph = P.st < m.wu ? 'wu' : P.st < m.wu + m.act ? 'act' : 'rec';
     P.vx = ph !== 'rec' ? P.face * m.lunge : P.vx * .8;
     if (ph === 'act') {
-      const hb = { x: P.face > 0 ? P.x + P.w / 2 : P.x + P.w / 2 - m.range, y: P.y + P.h - m.h, w: m.range, h: m.h };
-      for (const e of G.foes()) if (e.hp > 0 && !P.hitSet.has(e) && overlap(hb, e)) { P.hitSet.add(e); e.damage(m.dmg * pStr(), m.poise, P.face); }
+      const hb = m.both ? { x: P.x + P.w / 2 - m.range, y: P.y + P.h - m.h, w: m.range * 2, h: m.h } : { x: P.face > 0 ? P.x + P.w / 2 : P.x + P.w / 2 - m.range, y: P.y + P.h - m.h, w: m.range, h: m.h };
+      for (const e of G.foes()) if (e.hp > 0 && !P.hitSet.has(e) && overlap(hb, e)) { P.hitSet.add(e); e.damage(m.dmg * pStr(), m.poise, P.face); if (W.sfx && W.sfx.hit) SFX[W.sfx.hit](); }
     }
     if (P.st > m.wu + m.act + m.rec * .55 && (peek('light') || peek('heavy') || peek('roll'))) { P.state = 'free'; P.comboT = P.t; }
     else if (P.st > m.wu + m.act + m.rec) { P.state = 'free'; P.comboT = P.t; }
@@ -84,10 +84,12 @@ function updatePlayer(dt) {
   if (P.y > VH + 40) { P.hp = 0; P.state = 'dead'; P.st = 2; }
 }
 function playerPose() { // -> { anim, f } into the アスターテ sheets
-  const s = P.state, ph3 = (st, wu, act, rec) => st < wu ? st / wu * 2 : st < wu + act ? 2 + (st - wu) / act * 2 : 4 + Math.min(1.99, (st - wu - act) / rec * 2);
+  const s = P.state, ph3 = (st, wu, act, rec, anim) => { // map time onto the frames tagged wu/act/rec of this weapon's motion
+    const a = ASTA.get(weapon().draw).meta.anims[anim], ph = a.ph, p = st < wu ? 'wu' : st < wu + act ? 'act' : 'rec', t = p === 'wu' ? st / wu : p === 'act' ? (st - wu) / act : Math.min(.999, (st - wu - act) / rec);
+    const idx = []; ph.forEach((x, i) => { if (x === p) idx.push(i); }); return idx.length ? idx[Math.min(idx.length - 1, t * idx.length | 0)] : 0; };
   if (s === 'roll') return { anim: 'roll', f: P.st / .48 * 6 };
-  if (s === 'attack') { const m = P.move; return { anim: P.anim, f: ph3(P.st, m.wu, m.act, m.rec) }; }
-  if (s === 'riposte') return { anim: 'riposte', f: ph3(P.st, .35, .15, .3) };
+  if (s === 'attack') { const m = P.move; return { anim: P.anim, f: ph3(P.st, m.wu, m.act, m.rec, P.anim) }; }
+  if (s === 'riposte') return { anim: 'riposte', f: ph3(P.st, .35, .15, .3, 'riposte') };
   if (s === 'parry') { if (P.parryFlashT > 0) return { anim: 'parryflash', f: (.3 - P.parryFlashT) / .1 }; const w = weapon().parry; return { anim: 'parry', f: P.st < w.window ? (P.st < .05 ? 0 : 1) : 2 + (P.st - w.window) / (w.dur - w.window) * 2 }; }
   if (P.parryFlashT > 0) return { anim: 'parryflash', f: (.3 - P.parryFlashT) / .1 };
   if (s === 'hurt') return { anim: 'hit', f: P.st / .32 * 3 };

diff --git a/src/02_config.js b/src/02_config.js
@@ -1,21 +1,22 @@
 // ===== data: weapons / enemies / boss =====
 const VW = 384, VH = 288, T = 16, DT = 1 / 60, GRAV = 900;
-// Weapons are pure data: add a new entry (and a draw style in 04_art.js) to add a weapon.
+// Weapons are pure data: add an entry here (timings/hitboxes/sfx) + a motion set in ASTA.MOTIONS (src/04b_astarte.js)
+// + a draw style in weapon() there. Animation frames tagged wu/act/rec are stretched onto these timings.
 // move fields: wu=windup s, act=active s, rec=recovery s, dmg, stam, range px (in front), h=hitbox height, lunge px/s during windup+active,
 // arc = [startAngle, endAngle] of the weapon sprite through the swing (radians, 0 = forward, negative = up)
 const WEAPONS = {
   scythe: { name: '星詠みの大鎌', draw: 'scythe', riposteMul: 3.0,
     light: { wu: .22, act: .12, rec: .30, dmg: 34, stam: 18, range: 70, h: 56, lunge: 60, arc: [-2.2, .9], poise: 20 },
     light2: { wu: .16, act: .12, rec: .30, dmg: 34, stam: 18, range: 70, h: 64, lunge: 70, poise: 20 },
-    light3: { wu: .28, act: .16, rec: .42, dmg: 48, stam: 24, range: 84, h: 64, lunge: 110, poise: 40 },
+    light3: { wu: .26, act: .30, rec: .40, dmg: 44, stam: 26, range: 76, h: 64, lunge: 50, poise: 40, both: true },   // spin: hits both sides
     heavy: { wu: .55, act: .16, rec: .45, dmg: 80, stam: 36, range: 84, h: 78, lunge: 40, arc: [-2.8, 1.3], poise: 60 },
-    parry: { window: .20, stam: 14, dur: .45 } },
+    parry: { window: .20, stam: 14, dur: .45 }, sfx: { swing: 'whoosh', parry: 'parry' } },
   pan: { name: 'ミャオのフライパン', draw: 'pan', riposteMul: 4.0,
     light: { wu: .12, act: .08, rec: .18, dmg: 18, stam: 10, range: 36, h: 36, lunge: 50, arc: [-1.8, .6], poise: 10 },
     light2: { wu: .10, act: .08, rec: .18, dmg: 18, stam: 10, range: 36, h: 36, lunge: 60, poise: 10 },
     light3: { wu: .20, act: .10, rec: .30, dmg: 30, stam: 16, range: 40, h: 44, lunge: 120, poise: 50 },
-    heavy: { wu: .40, act: .12, rec: .30, dmg: 48, stam: 26, range: 42, h: 48, lunge: 90, arc: [-2.6, 1.0], poise: 80 },
-    parry: { window: .28, stam: 10, dur: .40 } },   // light weapon = generous parry, big riposte
+    heavy: { wu: .42, act: .12, rec: .55, dmg: 52, stam: 26, range: 44, h: 48, lunge: 90, arc: [-2.6, 1.0], poise: 80 },
+    parry: { window: .28, stam: 10, dur: .40 }, sfx: { swing: 'swish', parry: 'clang', hit: 'bonk' } },   // light weapon = generous parry, big riposte
 };
 // Enemies. attack.parry=true -> white telegraph flash (parryable), false -> red (dodge it).
 const ENEMIES = {

diff --git a/src/03_core.js b/src/03_core.js
@@ -53,4 +53,6 @@ function sfx(f, d = .08, type = 'square', vol = .06, slide = 0) {
 }
 const SFX = { swing: () => sfx(300, .07, 'triangle', .05, -200), hit: () => sfx(140, .1, 'square', .07, -80), parry: () => { sfx(1400, .25, 'triangle', .08, -300); sfx(2100, .18, 'sine', .05) },
   roll: () => sfx(90, .1, 'sine', .05), hurt: () => sfx(220, .18, 'sawtooth', .06, -150), bell: () => { sfx(330, .9, 'sine', .07); sfx(495, .7, 'sine', .04) }, souls: () => sfx(880, .2, 'sine', .05, 400),
+  whoosh: () => { sfx(180, .16, 'triangle', .05, -120); sfx(90, .2, 'sine', .04) }, swish: () => sfx(520, .06, 'triangle', .04, -250),
+  bonk: () => { sfx(240, .12, 'square', .06, -60); sfx(720, .25, 'sine', .04) }, clang: () => { sfx(988, .9, 'sine', .07); sfx(1480, .7, 'sine', .04); sfx(2220, .5, 'triangle', .03); sfx(660, 1.1, 'sine', .04) },
   heal: () => sfx(520, .3, 'sine', .05, 300), die: () => sfx(160, .8, 'sawtooth', .06, -120) };
